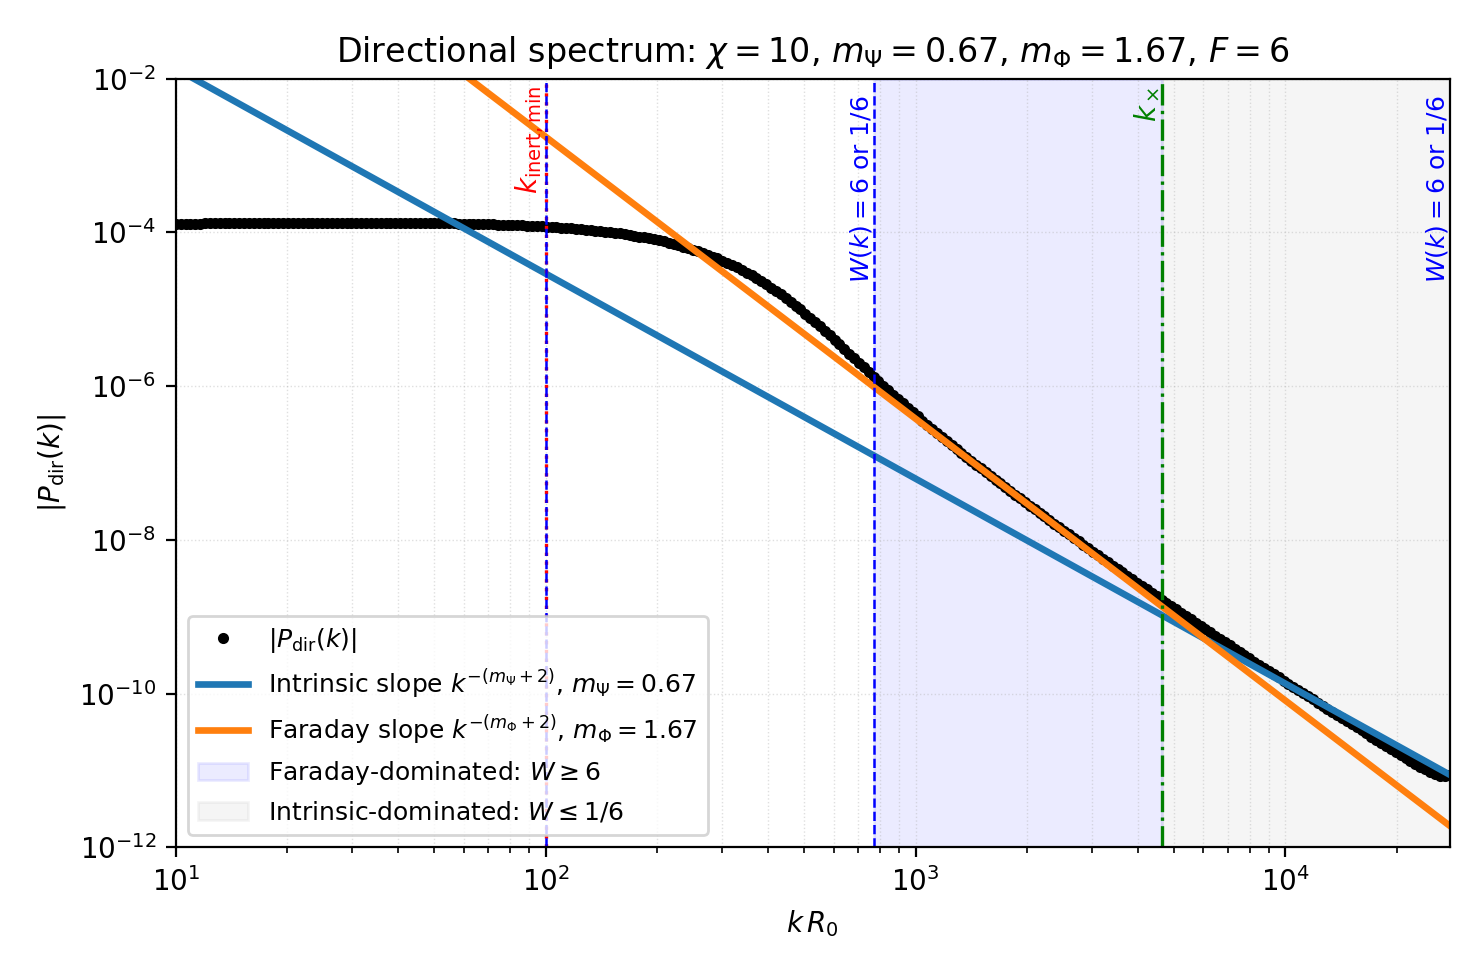
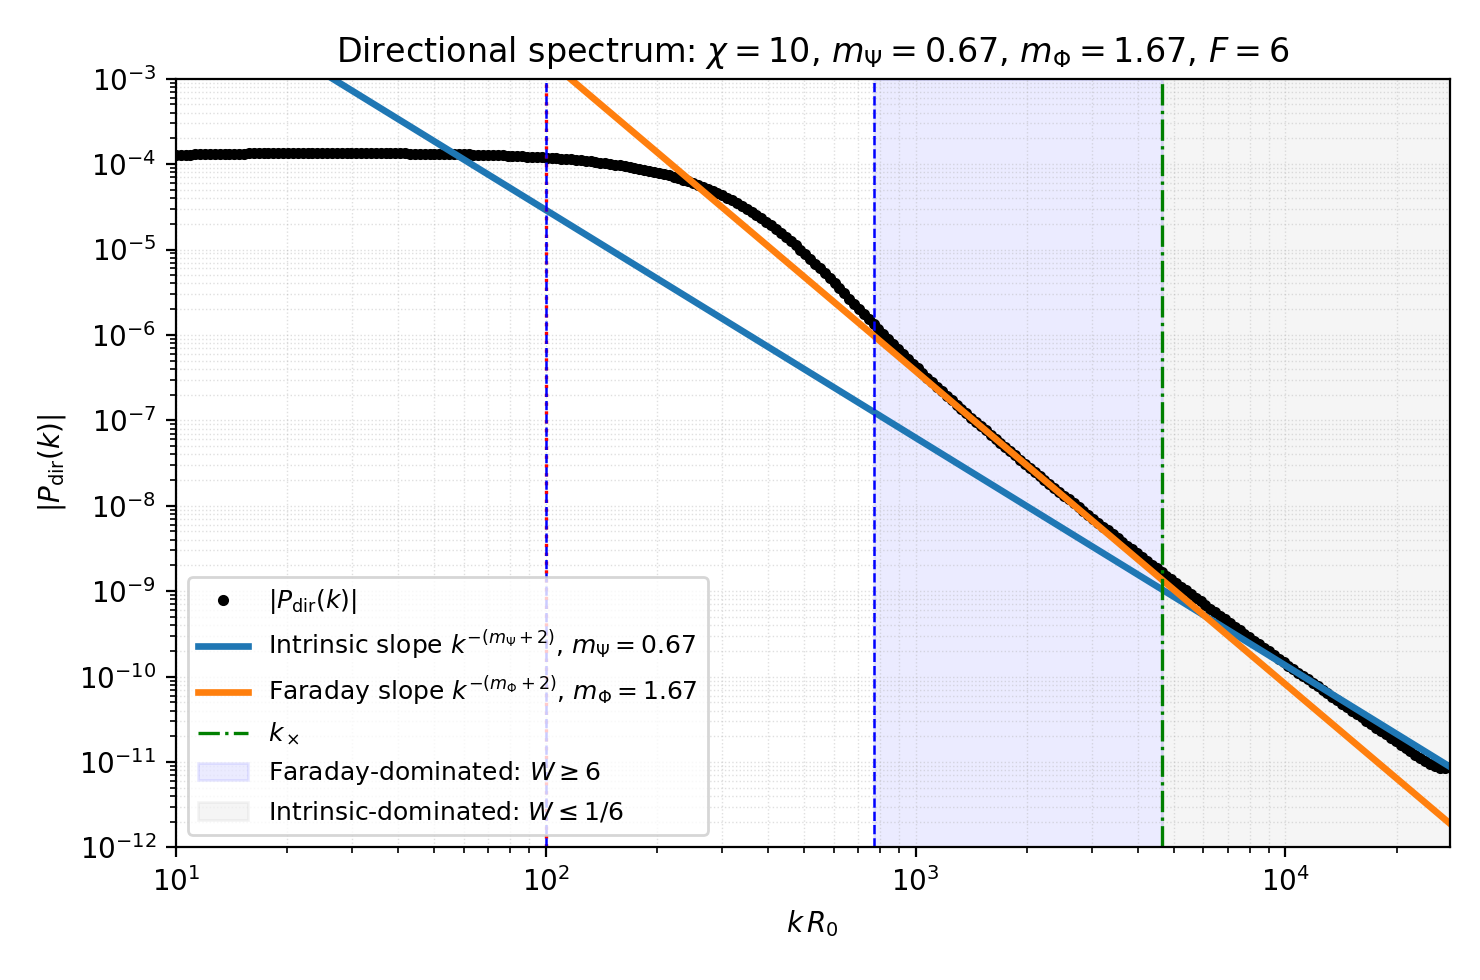
Scaling and label notation

diff --git a/compare_measures/directional_spectrum/theor_prediction_director/henkel_assymptotics.py b/compare_measures/directional_spectrum/theor_prediction_director/henkel_assymptotics.py
@@ -189,7 +189,7 @@ def plot_Pdir_with_asymptotics(
                 transform=ax.transAxes)
     
     ax.axvline(scales["k_inert_min"], color="red", ls=":", lw=1.2)
-    ax.axvline(scales["kx"], color="green", ls="-.", lw=1.2)
+    ax.axvline(scales["kx"], color="green", ls="-.", lw=1.2, label=r"$k_\times$")
     
     F = scales["dominance_factor"]
     delta = scales["delta"]
@@ -224,26 +224,26 @@ def plot_Pdir_with_asymptotics(
         rf"$F={dominance_factor:g}$"
     )
     
-    ax.set_ylim(1e-12, 1e-2)
+    ax.set_ylim(1e-12, 1e-3)
     ax.set_xlim(1e1, lo)
     
     y_top = ax.get_ylim()[1]
-    ax.text(scales["k_inert_min"], y_top*0.8, r"$k_{\rm inert,min}$", color="red",
-            rotation=90, va="top", ha="right", fontsize=10)
-    ax.text(scales["kx"], y_top*0.8, r"$k_\times$", color="green",
-            rotation=90, va="top", ha="right", fontsize=10)
+    # ax.text(scales["k_inert_min"], y_top*0.8, r"$k_{\rm inert,min}$", color="red",
+    #         rotation=90, va="top", ha="right", fontsize=10)
+    # ax.text(scales["kx"], y_top*0.8, r"$k_\times$", color="green",
+    #         rotation=90, va="top", ha="right", fontsize=10)
     
     b = sorted([v for v in boundaries if np.isfinite(v)])
     if len(b) >= 2:
         below = max([v for v in b if v < scales["kx"]], default=None)
         above = min([v for v in b if v > scales["kx"]], default=None)
         
-        if below is not None:
-            ax.text(below, y_top*0.6, rf"$W(k)={F:g}$ or $1/{F:g}$", color="blue",
-                    rotation=90, va="top", ha="right", fontsize=9)
-        if above is not None:
-            ax.text(above, y_top*0.6, rf"$W(k)={F:g}$ or $1/{F:g}$", color="blue",
-                    rotation=90, va="top", ha="right", fontsize=9)
+        # if below is not None:
+        #     ax.text(below, y_top*0.6, rf"$W(k)={F:g}$ or $1/{F:g}$", color="blue",
+        #             rotation=90, va="top", ha="right", fontsize=9)
+        # if above is not None:
+        #     ax.text(above, y_top*0.6, rf"$W(k)={F:g}$ or $1/{F:g}$", color="blue",
+        #             rotation=90, va="top", ha="right", fontsize=9)
     
     ax.grid(True, which="both", ls=":", lw=0.5, alpha=0.4)
     ax.legend(fontsize=9, loc="best")
